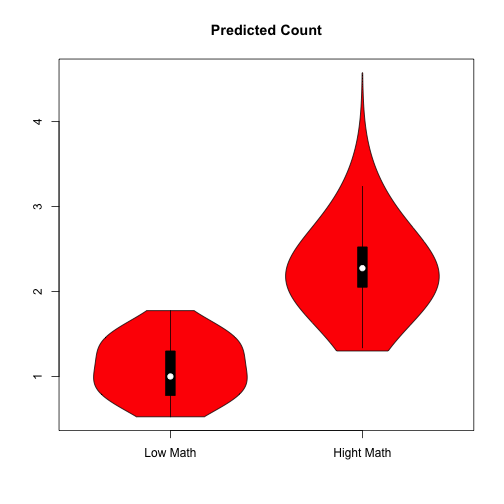
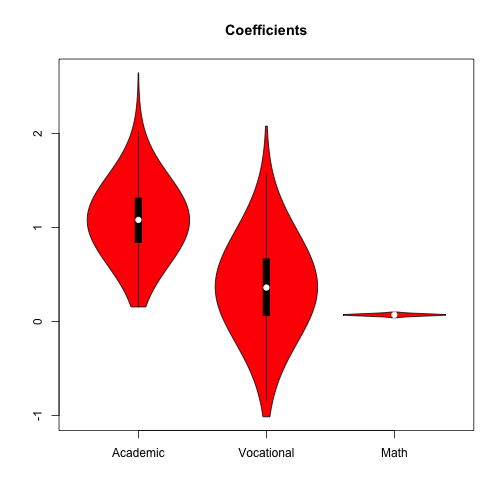
publishing deck

diff --git a/index.html b/index.html
@@ -230,20 +230,33 @@ head(sim.coefs)
 
 <slide class="" id="slide-7" style="background:;">
   <article data-timings="">
-    <p>Now we have our simulated coefficients from the MNL Model</p>
+    <p>Use the coefficients to caculated probability of being in General or 
+Vocational tracks.</p>
+
+<pre><code class="r">  # second, for current set of coefs, loop through each observation
+  # and values for the linear predictors
+  for(j in 1:n.obs){
+
+    ###reordered columns are now numbered consitently here ###
+    Xb.gen[j] &lt;- sim.coefs[i,1] + sim.coefs[i,3] + sim.coefs[i,5]
+    Xb.voc[j] &lt;- sim.coefs[i,2] + sim.coefs[i,4] + sim.coefs[i,6]
+  }
+  ####calculate probability of being in category voc or gen for each observation####
+  p.gen=exp(Xb.gen)/(1+exp(Xb.gen)+exp(Xb.voc))
+  p.voc=exp(Xb.voc)/(1+exp(Xb.gen)+exp(Xb.voc))
+  ####average probability across all observations####
+  p.gen[i]&lt;-mean(p.gen)
+  p.voc[i]&lt;-mean(p.voc)
+}
+</code></pre>
+
+<hr>
 
   </article>
   <!-- Presenter Notes -->
 </slide>
 
 <slide class="" id="slide-8" style="background:;">
-  <article data-timings="">
-    
-  </article>
-  <!-- Presenter Notes -->
-</slide>
-
-<slide class="" id="slide-9" style="background:;">
   <article data-timings="">
     <pre><code class="r">test &lt;- mlogit(prog ~ 1 | ses + write,  data = ml_1, 
                reflevel=&quot;academic&quot;, probit=FALSE)
@@ -266,7 +279,7 @@ hmftest(test,test1)
   <!-- Presenter Notes -->
 </slide>
 
-<slide class="" id="slide-10" style="background:;">
+<slide class="" id="slide-9" style="background:;">
   <hgroup>
     <h2>Models for Counting: Poisson</h2>
   </hgroup>
@@ -275,13 +288,13 @@ hmftest(test,test1)
 hist(count,col=&quot;blue&quot;)
 </code></pre>
 
-<h2><img src="figure/unnamed-chunk-7-1.png" alt="plot of chunk unnamed-chunk-7"></h2>
+<h2><img src="figure/unnamed-chunk-8-1.png" alt="plot of chunk unnamed-chunk-8"></h2>
 
   </article>
   <!-- Presenter Notes -->
 </slide>
 
-<slide class="" id="slide-11" style="background:;">
+<slide class="" id="slide-10" style="background:;">
   <hgroup>
     <h2>The Poisson Regression Model</h2>
   </hgroup>
@@ -297,7 +310,7 @@ hist(count,col=&quot;blue&quot;)
   <!-- Presenter Notes -->
 </slide>
 
-<slide class="" id="slide-12" style="background:;">
+<slide class="" id="slide-11" style="background:;">
   <hgroup>
     <h2>R Example:</h2>
   </hgroup>
@@ -326,7 +339,7 @@ summary(p)
   <!-- Presenter Notes -->
 </slide>
 
-<slide class="" id="slide-13" style="background:;">
+<slide class="" id="slide-12" style="background:;">
   <article data-timings="">
     <p>Describe the Count of Awards</p>
 
@@ -334,13 +347,13 @@ summary(p)
 ggplot(p, aes(num_awards, fill = prog)) + geom_histogram(binwidth=.5, position=&quot;dodge&quot;)
 </code></pre>
 
-<h2><img src="figure/unnamed-chunk-9-1.png" alt="plot of chunk unnamed-chunk-9"></h2>
+<h2><img src="figure/unnamed-chunk-10-1.png" alt="plot of chunk unnamed-chunk-10"></h2>
 
   </article>
   <!-- Presenter Notes -->
 </slide>
 
-<slide class="" id="slide-14" style="background:;">
+<slide class="" id="slide-13" style="background:;">
   <article data-timings="">
     <pre><code class="r">summary(m1 &lt;- glm(num_awards ~ prog + math, family=&quot;poisson&quot;, data=p))
 </code></pre>
@@ -377,7 +390,7 @@ ggplot(p, aes(num_awards, fill = prog)) + geom_histogram(binwidth=.5, position=&
   <!-- Presenter Notes -->
 </slide>
 
-<slide class="" id="slide-15" style="background:;">
+<slide class="" id="slide-14" style="background:;">
   <article data-timings="">
     <pre><code class="r">## calculate and store predicted values
 p$phat &lt;- predict(m1, type=&quot;response&quot;)
@@ -392,7 +405,7 @@ p &lt;- p[with(p, order(prog, math)), ]
   <!-- Presenter Notes -->
 </slide>
 
-<slide class="" id="slide-16" style="background:;">
+<slide class="" id="slide-15" style="background:;">
   <article data-timings="">
     <pre><code class="r">## create the plot
 ggplot(p, aes(x = math, y = phat, colour = prog)) +
@@ -400,13 +413,13 @@ ggplot(p, aes(x = math, y = phat, colour = prog)) +
   geom_line(size = 1) + labs(x = &quot;Math Score&quot;, y = &quot;Expected number of awards&quot;)
 </code></pre>
 
-<h2><img src="figure/unnamed-chunk-12-1.png" alt="plot of chunk unnamed-chunk-12"></h2>
+<h2><img src="figure/unnamed-chunk-13-1.png" alt="plot of chunk unnamed-chunk-13"></h2>
 
   </article>
   <!-- Presenter Notes -->
 </slide>
 
-<slide class="" id="slide-17" style="background:;">
+<slide class="" id="slide-16" style="background:;">
   <article data-timings="">
     <p>Observed Value Approach for Counts</p>
 
@@ -437,7 +450,7 @@ mod &lt;- obsval(num_awards ~ prog + math, data=p,
   <!-- Presenter Notes -->
 </slide>
 
-<slide class="" id="slide-18" style="background:;">
+<slide class="" id="slide-17" style="background:;">
   <article data-timings="">
     <pre><code class="r">library(vioplot)
 </code></pre>
@@ -463,25 +476,11 @@ mod &lt;- obsval(num_awards ~ prog + math, data=p,
   <!-- Presenter Notes -->
 </slide>
 
-<slide class="" id="slide-19" style="background:;">
+<slide class="" id="slide-18" style="background:;">
   <article data-timings="">
-    <pre><code class="r">vioplot(mod$sim.coef[,2], mod$sim.coef[,3], mod$sim.coef[,1], names=c(&quot;Academic&quot;,&quot;Vocational&quot;,&quot;Math&quot;), 
+    <pre><code class="r">vioplot(mod$sim.coef[,2], mod$sim.coef[,3], mod$sim.coef[,4], names=c(&quot;Academic&quot;,&quot;Vocational&quot;,&quot;Math&quot;), 
         col=&quot;red&quot;)
 title(&quot;Coefficients&quot;)
-</code></pre>
-
-<h2><img src="figure/unnamed-chunk-15-1.png" alt="plot of chunk unnamed-chunk-15"></h2>
-
-  </article>
-  <!-- Presenter Notes -->
-</slide>
-
-<slide class="" id="slide-20" style="background:;">
-  <article data-timings="">
-    <pre><code class="r">#head(mod$preds)
-vioplot(mod$preds[,1], mod$preds[,2], names=c(&quot;Low Math&quot;,&quot;Hight Math&quot;), 
-        col=&quot;red&quot;)
-title(&quot;Predicted Count&quot;)
 </code></pre>
 
 <h2><img src="figure/unnamed-chunk-16-1.png" alt="plot of chunk unnamed-chunk-16"></h2>
@@ -490,11 +489,12 @@ title(&quot;Predicted Count&quot;)
   <!-- Presenter Notes -->
 </slide>
 
-<slide class="" id="slide-21" style="background:;">
+<slide class="" id="slide-19" style="background:;">
   <article data-timings="">
-    <pre><code class="r">hist(mod$preds[,1],breaks=20,col=&quot;red&quot;)
-hist(mod$preds[,2], breaks=20,col=&quot;grey&quot;,add=T)
-box()
+    <pre><code class="r">#head(mod$preds)
+vioplot(mod$preds[,1], mod$preds[,2], names=c(&quot;Low Math&quot;,&quot;Hight Math&quot;), 
+        col=&quot;red&quot;)
+title(&quot;Predicted Count&quot;)
 </code></pre>
 
 <h2><img src="figure/unnamed-chunk-17-1.png" alt="plot of chunk unnamed-chunk-17"></h2>
@@ -503,7 +503,20 @@ box()
   <!-- Presenter Notes -->
 </slide>
 
-<slide class="" id="slide-22" style="background:;">
+<slide class="" id="slide-20" style="background:;">
+  <article data-timings="">
+    <pre><code class="r">hist(mod$preds[,1],breaks=20,col=&quot;red&quot;)
+hist(mod$preds[,2], breaks=20,col=&quot;grey&quot;,add=T)
+box()
+</code></pre>
+
+<h2><img src="figure/unnamed-chunk-18-1.png" alt="plot of chunk unnamed-chunk-18"></h2>
+
+  </article>
+  <!-- Presenter Notes -->
+</slide>
+
+<slide class="" id="slide-21" style="background:;">
   <article data-timings="">
     <p>Test of Over dispersion</p>
 
@@ -540,7 +553,7 @@ box()
   <!-- Presenter Notes -->
 </slide>
 
-<slide class="" id="slide-23" style="background:;">
+<slide class="" id="slide-22" style="background:;">
   <article data-timings="">
     <p>Cameron &amp; Trivedi (1990).
 Assume the mean is \(E(Y)=\mu\) and the variance is \(Var(Y)=\mu\). On may test this assumption as a null hypothesis against an alternative where \(Var(Y)=\mu+c∗f(\mu)\) where the constant \(c<0\) means under dispersion and \(c>0\) means over dispersion. </p>
@@ -567,7 +580,7 @@ Assume the mean is \(E(Y)=\mu\) and the variance is \(Var(Y)=\mu\). On may test 
   <!-- Presenter Notes -->
 </slide>
 
-<slide class="" id="slide-24" style="background:;">
+<slide class="" id="slide-23" style="background:;">
   <article data-timings="">
     <pre><code class="r">summary(m2 &lt;- glm.nb(num_awards ~ prog + math, data=p))
 </code></pre>
@@ -611,12 +624,9 @@ Assume the mean is \(E(Y)=\mu\) and the variance is \(Var(Y)=\mu\). On may test 
   <!-- Presenter Notes -->
 </slide>
 
-<slide class="" id="slide-25" style="background:;">
+<slide class="" id="slide-24" style="background:;">
   <article data-timings="">
-    <pre><code class="r">summary(m2 &lt;- zeroinfl(num_awards ~ prog+math| math, data=p))
-</code></pre>
-
-<pre><code>## Error in summary(m2 &lt;- zeroinfl(num_awards ~ prog + math | math, data = p)): could not find function &quot;zeroinfl&quot;
+    <pre><code class="r">summary(m3 &lt;- zeroinfl(num_awards ~ prog+math| math, data=p))
 </code></pre>
 
 <hr>
@@ -679,25 +689,25 @@ Assume the mean is \(E(Y)=\mu\) and the variance is \(Var(Y)=\mu\). On may test 
     </li>
     <li>
       <a href="#" target="_self" rel='tooltip' 
-        data-slide=9 title='NA'>
+        data-slide=9 title='Models for Counting: Poisson'>
          9
       </a>
     </li>
     <li>
       <a href="#" target="_self" rel='tooltip' 
-        data-slide=10 title='Models for Counting: Poisson'>
+        data-slide=10 title='The Poisson Regression Model'>
          10
       </a>
     </li>
     <li>
       <a href="#" target="_self" rel='tooltip' 
-        data-slide=11 title='The Poisson Regression Model'>
+        data-slide=11 title='R Example:'>
          11
       </a>
     </li>
     <li>
       <a href="#" target="_self" rel='tooltip' 
-        data-slide=12 title='R Example:'>
+        data-slide=12 title='NA'>
          12
       </a>
     </li>
@@ -771,12 +781,6 @@ Assume the mean is \(E(Y)=\mu\) and the variance is \(Var(Y)=\mu\). On may test 
       <a href="#" target="_self" rel='tooltip' 
         data-slide=24 title='NA'>
          24
-      </a>
-    </li>
-    <li>
-      <a href="#" target="_self" rel='tooltip' 
-        data-slide=25 title='NA'>
-         25
       </a>
     </li>
   </ul>

diff --git a/index.md b/index.md
@@ -186,8 +186,26 @@ head(sim.coefs)
 
 
 ---
-Now we have our simulated coefficients from the MNL Model
+Use the coefficients to caculated probability of being in General or 
+Vocational tracks.
 
+```r
+  # second, for current set of coefs, loop through each observation
+  # and values for the linear predictors
+  for(j in 1:n.obs){
+    
+    ###reordered columns are now numbered consitently here ###
+    Xb.gen[j] <- sim.coefs[i,1] + sim.coefs[i,3] + sim.coefs[i,5]
+    Xb.voc[j] <- sim.coefs[i,2] + sim.coefs[i,4] + sim.coefs[i,6]
+  }
+  ####calculate probability of being in category voc or gen for each observation####
+  p.gen=exp(Xb.gen)/(1+exp(Xb.gen)+exp(Xb.voc))
+  p.voc=exp(Xb.voc)/(1+exp(Xb.gen)+exp(Xb.voc))
+  ####average probability across all observations####
+  p.gen[i]<-mean(p.gen)
+  p.voc[i]<-mean(p.voc)
+}
+```
 ---
 
 
@@ -222,7 +240,7 @@ count<-rpois(1000,5)
 hist(count,col="blue")
 ```
 
-![plot of chunk unnamed-chunk-7](figure/unnamed-chunk-7-1.png)
+![plot of chunk unnamed-chunk-8](figure/unnamed-chunk-8-1.png)
 ---
 
 ---
@@ -231,6 +249,7 @@ hist(count,col="blue")
 > - $Var(y)=E(y)=\mu$
 > - $Pr(y|\mu)=\frac{exp(-\mu)\mu^y}{y!}$
 > - $\mu_i=E(y_i|x_i)=exp(\mathbf{x_i\beta})$
+
 
 ---
 ## R Example:
@@ -266,7 +285,7 @@ library(ggplot2)
 ggplot(p, aes(num_awards, fill = prog)) + geom_histogram(binwidth=.5, position="dodge")
 ```
 
-![plot of chunk unnamed-chunk-9](figure/unnamed-chunk-9-1.png)
+![plot of chunk unnamed-chunk-10](figure/unnamed-chunk-10-1.png)
 ---
 
 ---
@@ -324,7 +343,7 @@ ggplot(p, aes(x = math, y = phat, colour = prog)) +
   geom_line(size = 1) + labs(x = "Math Score", y = "Expected number of awards")
 ```
 
-![plot of chunk unnamed-chunk-12](figure/unnamed-chunk-12-1.png)
+![plot of chunk unnamed-chunk-13](figure/unnamed-chunk-13-1.png)
 ---
 
 
@@ -387,12 +406,12 @@ library(vioplot)
 ---
 
 ```r
-vioplot(mod$sim.coef[,2], mod$sim.coef[,3], mod$sim.coef[,1], names=c("Academic","Vocational","Math"), 
+vioplot(mod$sim.coef[,2], mod$sim.coef[,3], mod$sim.coef[,4], names=c("Academic","Vocational","Math"), 
         col="red")
 title("Coefficients")
 ```
 
-![plot of chunk unnamed-chunk-15](figure/unnamed-chunk-15-1.png)
+![plot of chunk unnamed-chunk-16](figure/unnamed-chunk-16-1.png)
 ---
 
 ---
@@ -404,7 +423,7 @@ vioplot(mod$preds[,1], mod$preds[,2], names=c("Low Math","Hight Math"),
 title("Predicted Count")
 ```
 
-![plot of chunk unnamed-chunk-16](figure/unnamed-chunk-16-1.png)
+![plot of chunk unnamed-chunk-17](figure/unnamed-chunk-17-1.png)
 ---
 
 
@@ -417,7 +436,7 @@ hist(mod$preds[,2], breaks=20,col="grey",add=T)
 box()
 ```
 
-![plot of chunk unnamed-chunk-17](figure/unnamed-chunk-17-1.png)
+![plot of chunk unnamed-chunk-18](figure/unnamed-chunk-18-1.png)
 ---
 
 ---
@@ -528,11 +547,7 @@ summary(m2 <- glm.nb(num_awards ~ prog + math, data=p))
 ---
 
 ```r
-summary(m2 <- zeroinfl(num_awards ~ prog+math| math, data=p))
-```
-
-```
-## Error in summary(m2 <- zeroinfl(num_awards ~ prog + math | math, data = p)): could not find function "zeroinfl"
+summary(m3 <- zeroinfl(num_awards ~ prog+math| math, data=p))
 ```
 ---
 
